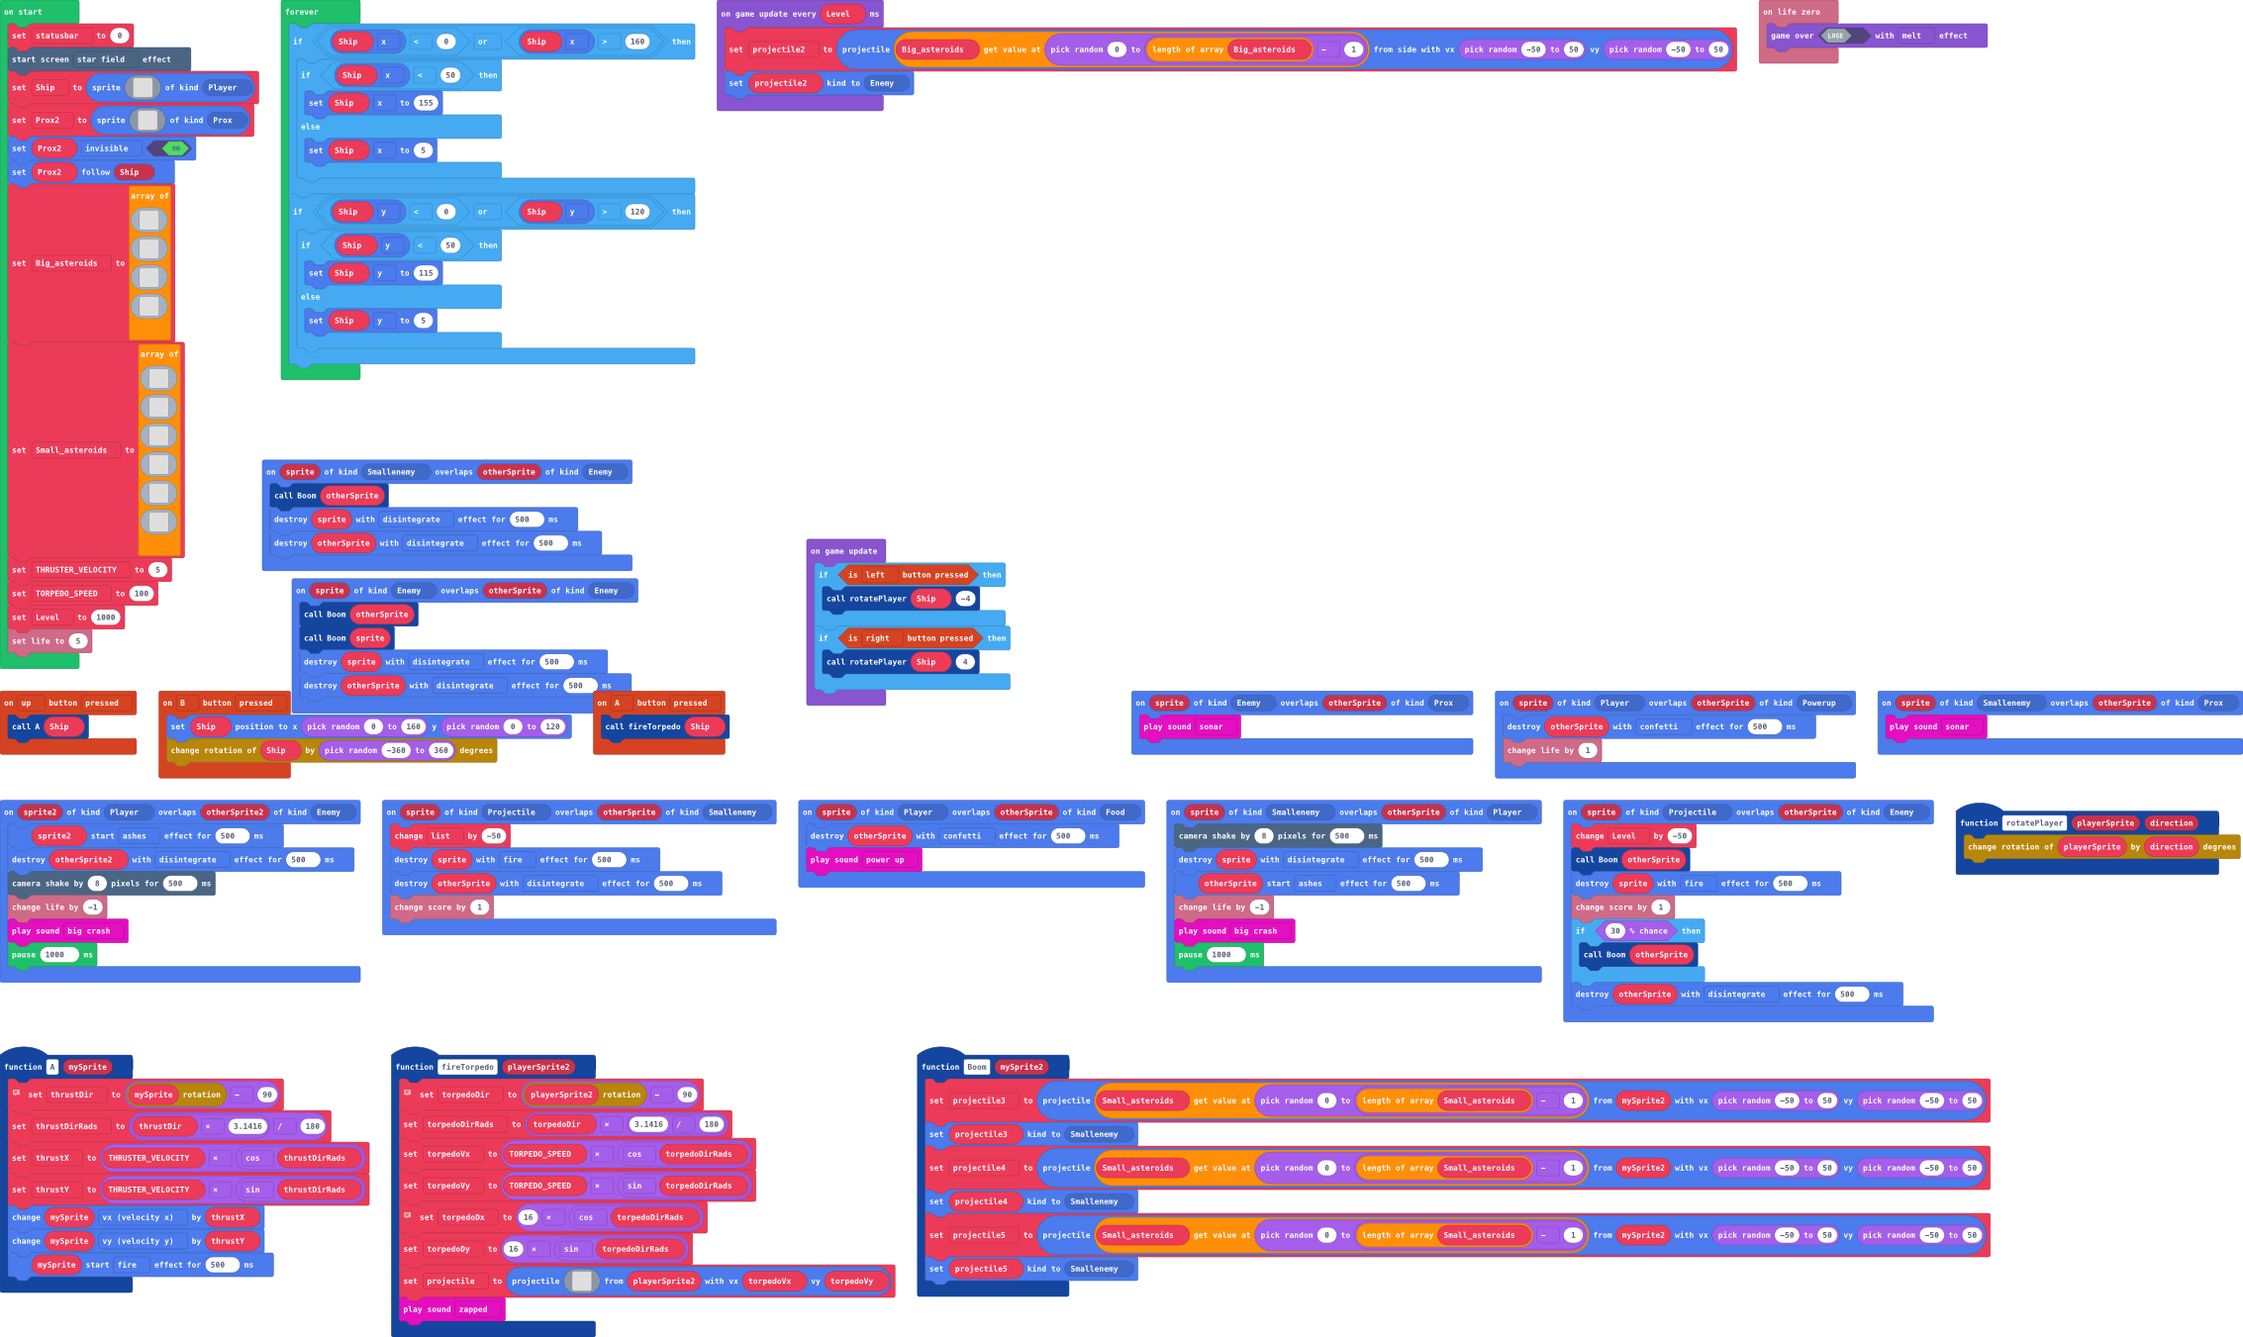
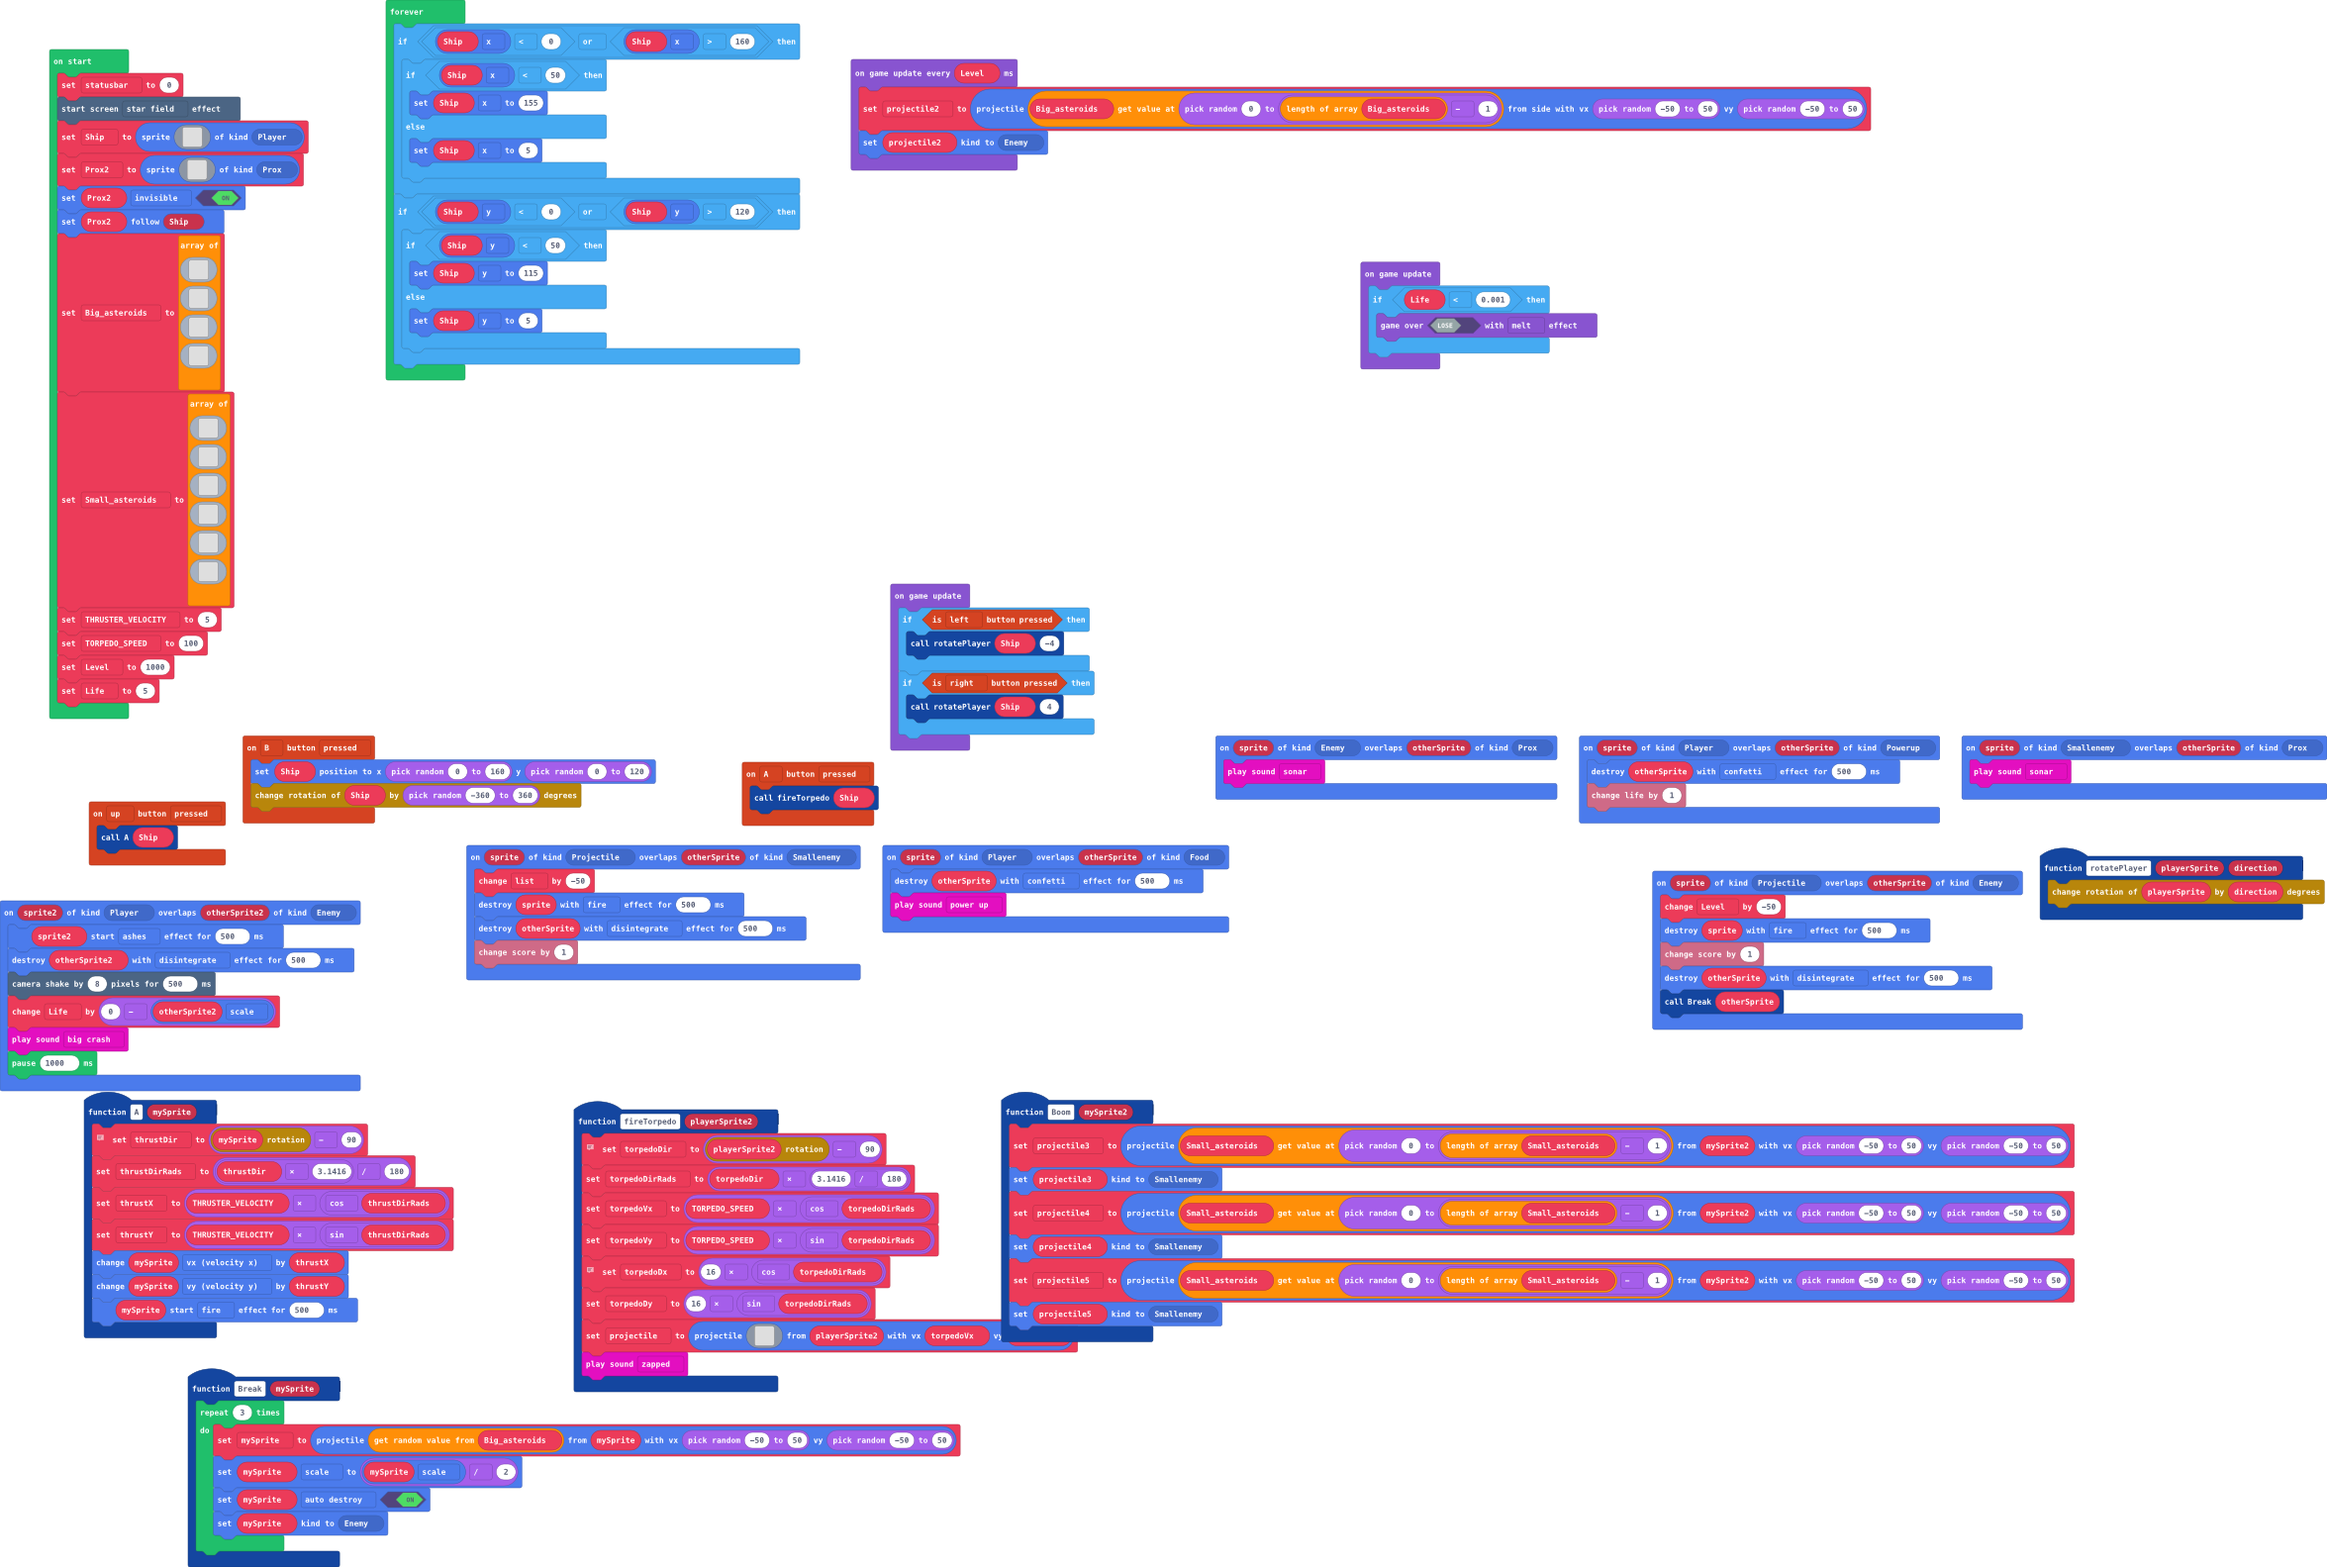
Update pxt.json, main.blocks, main.ts, tilemap.g.jres, tilemap.g.ts

diff --git a/main.ts b/main.ts
@@ -37,22 +37,11 @@ controller.A.onEvent(ControllerButtonEvent.Pressed, function () {
 sprites.onOverlap(SpriteKind.Enemy, SpriteKind.Prox, function (sprite, otherSprite) {
     music.sonar.play()
 })
-sprites.onOverlap(SpriteKind.Smallenemy, SpriteKind.Enemy, function (sprite, otherSprite) {
-    Boom(otherSprite)
-    sprites.destroy(sprite, effects.disintegrate, 500)
-    sprites.destroy(otherSprite, effects.disintegrate, 500)
-})
-sprites.onOverlap(SpriteKind.Enemy, SpriteKind.Enemy, function (sprite, otherSprite) {
-    Boom(otherSprite)
-    Boom(sprite)
-    sprites.destroy(sprite, effects.disintegrate, 500)
-    sprites.destroy(otherSprite, effects.disintegrate, 500)
-})
 sprites.onOverlap(SpriteKind.Player, SpriteKind.Enemy, function (sprite2, otherSprite2) {
     sprite2.startEffect(effects.ashes, 500)
     otherSprite2.destroy(effects.disintegrate, 500)
     scene.cameraShake(8, 500)
-    info.changeLifeBy(-1)
+    Life += 0 - otherSprite2.scale
     music.bigCrash.play()
     pause(1000)
 })
@@ -62,9 +51,14 @@ sprites.onOverlap(SpriteKind.Projectile, SpriteKind.Smallenemy, function (sprite
     otherSprite.destroy(effects.disintegrate, 500)
     info.changeScoreBy(1)
 })
-info.onLifeZero(function () {
-    game.over(false, effects.melt)
-})
+function Break (mySprite: Sprite) {
+    for (let index = 0; index < 3; index++) {
+        mySprite = sprites.createProjectileFromSprite(Big_asteroids._pickRandom(), mySprite, randint(-50, 50), randint(-50, 50))
+        mySprite.scale = mySprite.scale / 2
+        mySprite.setFlag(SpriteFlag.AutoDestroy, true)
+        mySprite.setKind(SpriteKind.Enemy)
+    }
+}
 sprites.onOverlap(SpriteKind.Player, SpriteKind.Food, function (sprite, otherSprite) {
     otherSprite.destroy(effects.confetti, 500)
     music.powerUp.play()
@@ -98,14 +92,6 @@ function fireTorpedo (playerSprite2: Sprite) {
         `, playerSprite2, torpedoVx, torpedoVy)
     music.zapped.play()
 }
-sprites.onOverlap(SpriteKind.Smallenemy, SpriteKind.Player, function (sprite, otherSprite) {
-    scene.cameraShake(8, 500)
-    sprite.destroy(effects.disintegrate, 500)
-    otherSprite.startEffect(effects.ashes, 500)
-    info.changeLifeBy(-1)
-    music.bigCrash.play()
-    pause(1000)
-})
 function Boom (mySprite2: Sprite) {
     projectile3 = sprites.createProjectileFromSprite(Small_asteroids[randint(0, Small_asteroids.length - 1)], mySprite2, randint(-50, 50), randint(-50, 50))
     projectile3.setKind(SpriteKind.Smallenemy)
@@ -116,13 +102,10 @@ function Boom (mySprite2: Sprite) {
 }
 sprites.onOverlap(SpriteKind.Projectile, SpriteKind.Enemy, function (sprite, otherSprite) {
     Level += -50
-    Boom(otherSprite)
     sprite.destroy(effects.fire, 500)
     info.changeScoreBy(1)
-    if (Math.percentChance(30)) {
-        Boom(otherSprite)
-    }
     otherSprite.destroy(effects.disintegrate, 500)
+    Break(otherSprite)
 })
 let projectile2: Sprite = null
 let projectile5: Sprite = null
@@ -135,6 +118,7 @@ let torpedoVy = 0
 let torpedoVx = 0
 let torpedoDirRads = 0
 let torpedoDir = 0
+let mySprite: Sprite = null
 let list = 0
 let thrustY = 0
 let thrustX = 0
@@ -143,6 +127,7 @@ let thrustDir = 0
 let TORPEDO_SPEED = 0
 let THRUSTER_VELOCITY = 0
 let Small_asteroids: Image[] = []
+let Big_asteroids: Image[] = []
 let Ship: Sprite = null
 let statusbar = 0
 effects.starField.startScreenEffect()
@@ -288,7 +273,7 @@ let Prox2 = sprites.create(img`
     `, SpriteKind.Prox)
 Prox2.setFlag(SpriteFlag.Invisible, true)
 Prox2.follow(Ship)
-let Big_asteroids = [
+Big_asteroids = [
 assets.image`A`,
 assets.image`B`,
 assets.image`C`,
@@ -305,7 +290,12 @@ assets.image`J`
 THRUSTER_VELOCITY = 5
 TORPEDO_SPEED = 100
 let Level = 1000
-info.setLife(5)
+let Life = 5
+game.onUpdate(function () {
+    if (Life < 0.001) {
+        game.over(false, effects.melt)
+    }
+})
 game.onUpdate(function () {
     if (controller.left.isPressed()) {
         rotatePlayer(Ship, -4)

diff --git a/tilemap.g.ts b/tilemap.g.ts
@@ -1,0 +1,14 @@
+// Auto-generated code. Do not edit.
+namespace myTiles {
+    //% fixedInstance jres blockIdentity=images._tile
+    export const transparency16 = image.ofBuffer(hex``);
+
+    helpers._registerFactory("tile", function(name: string) {
+        switch(helpers.stringTrim(name)) {
+            case "transparency16":return transparency16;
+        }
+        return null;
+    })
+
+}
+// Auto-generated code. Do not edit.
